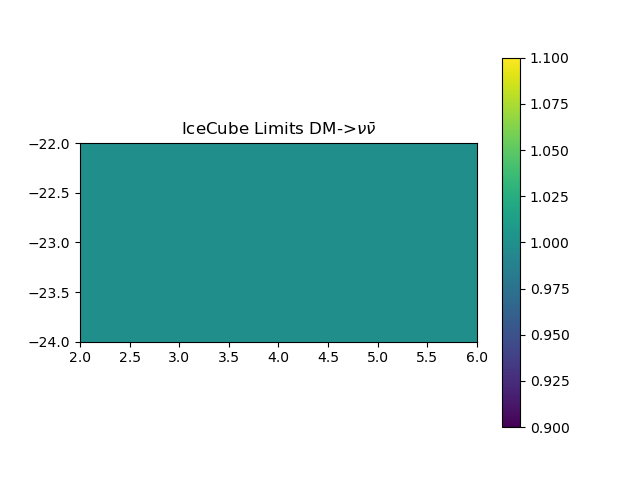
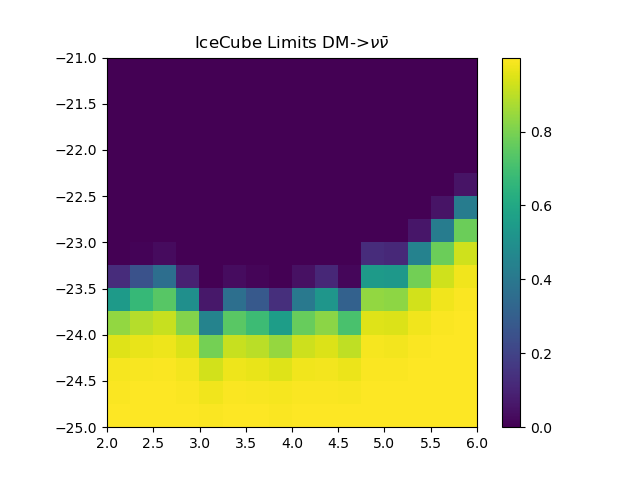
smearing correction

diff --git a/pone_dm/detectors.py b/pone_dm/detectors.py
@@ -157,11 +157,11 @@ class Detector(object):
 
         # Normalizing
         smearing_fraction = (np.array(smearing_fraction) /
-                             np.trapz(smearing_fraction, x=smearing_e_grid))
+                             np.trapz(smearing_fraction, x=smearing_e_grid)) / 10 # For change in basis from log_10 to Natural numbers 
 
         return smearing_e_grid, smearing_fraction
 
-    def sim_to_dec(self, flux: dict, year: float):
+    def sim_to_dec(self, flux: dict, year: float, boolean_sig=False):
         """
         Returns Counts for atmospheric and astro fluxes for IceCube --> dict
         parameters
@@ -212,7 +212,10 @@ class Detector(object):
                 tmp_1.append(local_sp * at_counts_unsm[theta][id_check])
                 tmp_2.append(local_sp * as_counts_unsm[theta][id_check])
             # appending array to a list ( tmp_1(e_bin)_theta )
-            self._tmp_count.append(np.sum(np.array(tmp_1), axis=0))
+            if boolean_sig:
+                self._tmp_count.append(np.sum(np.array(tmp_1), axis=0))
+            else:
+                self._tmp_count.append(np.sum(np.array(tmp_1) + np.array(tmp_2), axis=0))
         # suming up for all the angles ------ need to check -----
         self._tmp_count = np.sum(self._tmp_count, axis=0)
 

diff --git a/pone_dm/config.py b/pone_dm/config.py
@@ -27,8 +27,8 @@ _baseconfig = {
         "year": [1, 2, 3, 4, 5, 6, 7, 8, 9]
     },
     "simulation parameters": {
-        "mass grid": np.logspace(2, 6, 11),
-        "sv grid": np.logspace(-24, -22, 11),
+        "mass grid": np.logspace(2, 6, 16),
+        "sv grid": np.logspace(-25, -21, 16),
         "uptime": 5 * 365 * 24 * 60 * 60,
         "low energy cutoff": 1e3,  # GeV
         "DM type k": 2
@@ -51,7 +51,7 @@ _baseconfig = {
         # Angles of interest currently not custom
         'theta angles': range(0, 91, 1),
         # Particles of interest
-        'particles of interest': ['numu', "nue", "nutau"]
+        'particles of interest': ['numu']
     },
     ###########################################################################
     # P-ONE

diff --git a/pone_dm/limit_calc.py b/pone_dm/limit_calc.py
@@ -61,7 +61,6 @@ class Limits(object):
     def limits(self):
         """Returns Calculated Limits for mass grid and SV grd"""
         return self.limit
-
 # Limit calculation ------------------
 
     def limit_calc_ice(self, mass_grid,
@@ -70,8 +69,7 @@ class Limits(object):
         y = {}
         # for more generations adding the loop ----
         self._signal_grid = np.array([[
-                  np.sum((self._signal(self._egrid, mass, sv))[self._t_d:],
-                         axis=0)
+                  np.sum((self._signal(self._egrid, mass, sv)), axis=0)[self._t_d:]
                   for mass in mass_grid]
                  for sv in sv_grid]
                  )

diff --git a/pone_dm/dm2nu.py b/pone_dm/dm2nu.py
@@ -44,7 +44,7 @@ class DM2Nu(object):
         """
         return self._dphi_dE_g(
             sv, k, m_x, E, J
-        ) * 1e-3 # TODO: Unit correction need to check which one
+        ) * 1e-2 # TODO: Unit correction need to check which one
 
     def extra_galactic_flux(self, E: np.array,
                             m_x: float, sv: float):
@@ -55,7 +55,7 @@ class DM2Nu(object):
         """
         return self._dphide_lopez(
             E, m_x, sv
-        ) * 1e-3 # Some error in unit conversion 29.11.21
+        ) * 1e-2 # Some error in unit conversion 29.11.21
     # ---------------------------------------------------------------------------
     # Galactic
 

diff --git a/pone_dm/signal_calc.py b/pone_dm/signal_calc.py
@@ -95,7 +95,7 @@ class Signal(object):
         # the sim_to_dec omits the dict but we assume
         # same for all neutrino flavours
         pickle.dump(total_flux,open('../data/signal_flux/extra_%.1e_%.1e.pkl' % (mass,sv),'wb'))
-        pickle.dump(total_new_conts,open("../data/signal_counts/counts_%.1_%.1e.pkl"%(mass,sv),"wb"))
+        pickle.dump(total_new_counts,open("../data/signal_counts/counts_%.1e_%.1e.pkl"%(mass,sv),"wb"))
         return total_new_counts
 
     def _signal_calc_pone(self, egrid: np.array, mass: float,

diff --git a/pone_dm/testing.py b/pone_dm/testing.py
@@ -12,8 +12,6 @@ from pdm import PDM
 
 
 config["general"]["detector"] = "IceCube"
-config["general"]["year"] = 8
-
 pdm = PDM()
 limits_results = pdm.results['numu']
 mass_grid = config['simulation parameters']['mass grid']
